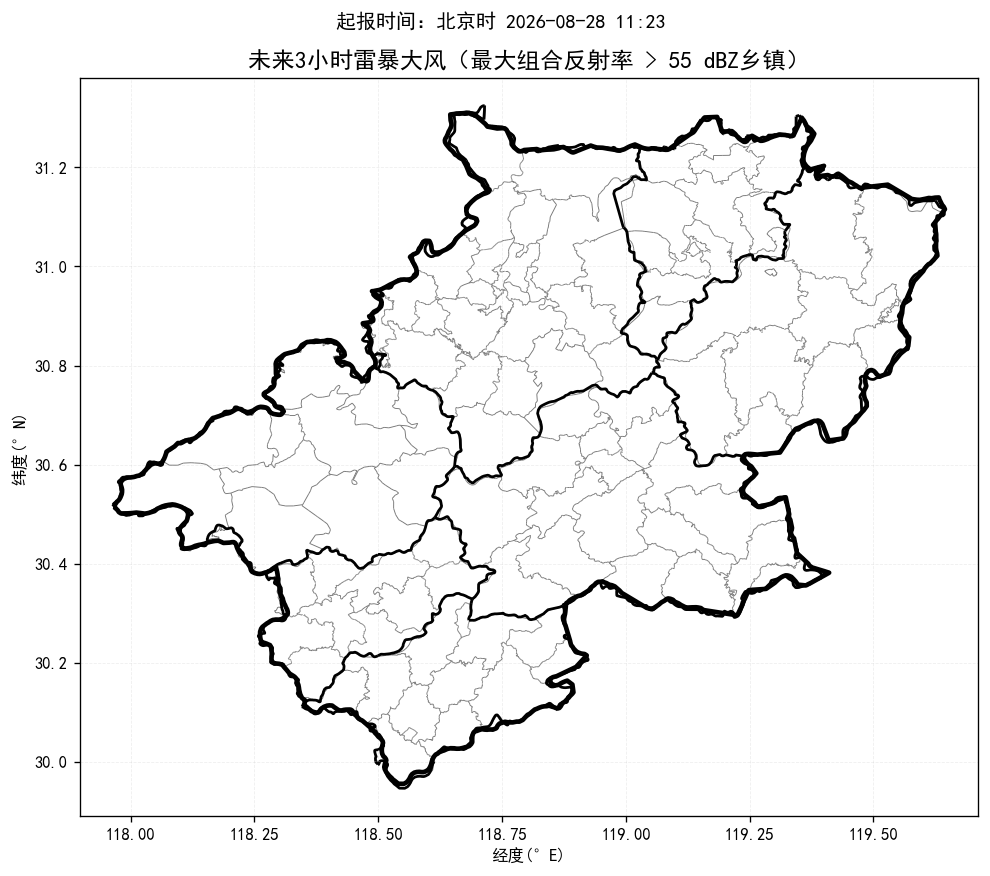
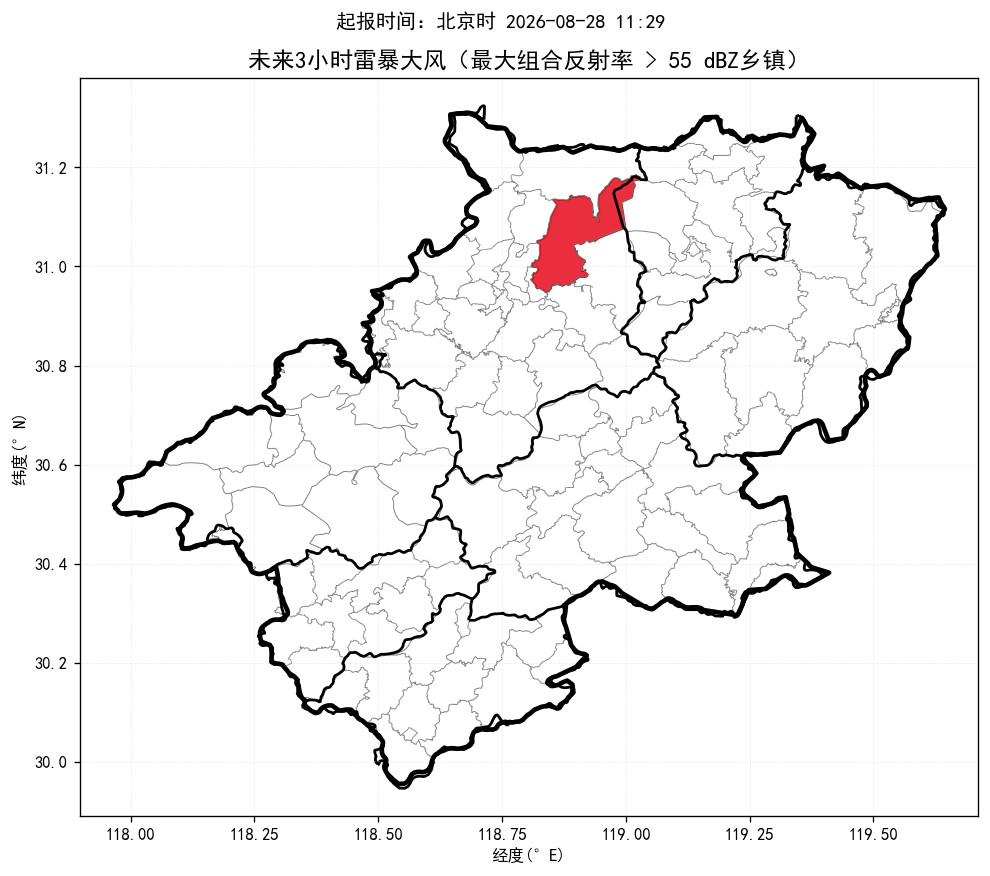
update nowcast products

Changed region(s): [[0.5152, 0.1849, 0.6364, 0.339]]

diff --git a/index.html b/index.html
@@ -14,14 +14,14 @@ img.product{display:block;width:100%;height:auto;margin:10px auto 26px;border:1p
 .footer{font-size:13px;color:#777;text-align:center;margin-top:30px}
 @media(max-width:700px){.sheet{margin:0;padding:18px 15px}.alert-title{font-size:22px}.county-line{font-size:17px}.prob{font-size:18px}}
 </style></head><body><main class="sheet">
-<div class="time">起报时间：北京时 2026-08-28 11:23</div>
+<div class="time">起报时间：北京时 2026-08-28 11:29</div>
 <div class="alert-title">未来一小时降水量超过 20 毫米的乡镇：</div><div class="county-line">无</div>
 <div class="alert-title">未来三小时降水量超过 50 毫米的乡镇：</div><div class="county-line">无</div>
-<div class="alert-title">未来三小时雷暴大风（组合反射率 > 55 dBZ）的乡镇：</div><div class="county-line">无</div>
-<div class="prob">最大降水量概率预估：宣城市范围内未来三小时降水偏小，最大预报约8.5毫米，暂不进行50/80/100毫米概率预估。</div>
-<div class="section-title">未来降水预报图：</div><img class="product auto-refresh-product" data-src="短临降水预报.png" src="短临降水预报.png?v=20260828112940" alt="未来降水预报图">
-<div class="section-title">未来三小时组合反射率图：</div><img class="product auto-refresh-product" data-src="未来3小时组合反射率.png" src="未来3小时组合反射率.png?v=20260828112940" alt="未来三小时组合反射率图">
-<div class="section-title">未来三小时雷暴大风图：</div><img class="product auto-refresh-product" data-src="未来3小时雷暴大风.png" src="未来3小时雷暴大风.png?v=20260828112940" alt="未来三小时雷暴大风图">
+<div class="alert-title">未来三小时雷暴大风（组合反射率 > 55 dBZ）的乡镇：</div><div class="county-line">宣州区：沈村镇</div>
+<div class="prob">最大降水量概率预估：宣城市范围内未来三小时降水偏小，最大预报约17.7毫米，暂不进行50/80/100毫米概率预估。</div>
+<div class="section-title">未来降水预报图：</div><img class="product auto-refresh-product" data-src="短临降水预报.png" src="短临降水预报.png?v=20260828113520" alt="未来降水预报图">
+<div class="section-title">未来三小时组合反射率图：</div><img class="product auto-refresh-product" data-src="未来3小时组合反射率.png" src="未来3小时组合反射率.png?v=20260828113520" alt="未来三小时组合反射率图">
+<div class="section-title">未来三小时雷暴大风图：</div><img class="product auto-refresh-product" data-src="未来3小时雷暴大风.png" src="未来3小时雷暴大风.png?v=20260828113520" alt="未来三小时雷暴大风图">
 <div class="footer">三张产品图每 60 秒自动刷新一次；每次请求自动附加新的URL参数以绕过缓存。</div>
 <script>
 (function() {
